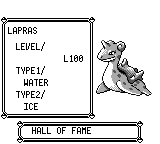
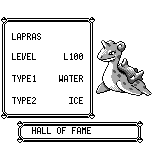
fix(ui): align Hall of Fame labels and add card padding

diff --git a/crates/pokered-app/src/render/hof_ceremony.rs b/crates/pokered-app/src/render/hof_ceremony.rs
@@ -318,7 +318,7 @@ fn draw_mon_info(entry: &pokered_core::hof_ceremony::HofEntry, fb: &mut FrameBuf
     draw_hof_mon_info(entry.species, entry.level, &entry.nickname, fb, is_zh);
 }
 
-/// Shared ceremony / League PC information card with twelve-pixel rows.
+/// Shared ceremony / League PC card with padded, aligned label/value rows.
 pub(super) fn draw_hof_mon_info(
     species: pokered_data::species::Species,
     level: u8,
@@ -327,15 +327,30 @@ pub(super) fn draw_hof_mon_info(
     is_zh: bool,
 ) {
     draw_text_box(fb, 0, 2 * T, 10, 11, FG);
-    draw_text(nickname, T, 24, FG, fb);
-    draw_text(lang_data::ui_label("LEVEL/", is_zh), 2 * T, 40, FG, fb);
-    draw_text(&format!("L{}", level), 8 * T, 52, FG, fb);
+    let left = 12;
+    let right = 84;
+    draw_text(nickname, left, 30, FG, fb);
+    let mut draw_row = |label: &str, value: &str, y| {
+        draw_text(label.trim_end_matches('/'), left, y, FG, fb);
+        draw_text(value, right - measure_text(value), y, FG, fb);
+    };
+    draw_row(
+        lang_data::ui_label("LEVEL/", is_zh),
+        &format!("L{}", level),
+        50,
+    );
     if let Some(stats) = pokered_data::pokemon_data::get_base_stats(species) {
-        draw_text(lang_data::ui_label("TYPE1/", is_zh), 2 * T, 64, FG, fb);
-        draw_text(lang_data::type_name(stats.type1, is_zh), 3 * T, 76, FG, fb);
+        draw_row(
+            lang_data::ui_label("TYPE1/", is_zh),
+            lang_data::type_name(stats.type1, is_zh),
+            72,
+        );
         if stats.type1 != stats.type2 {
-            draw_text(lang_data::ui_label("TYPE2/", is_zh), 2 * T, 88, FG, fb);
-            draw_text(lang_data::type_name(stats.type2, is_zh), 3 * T, 100, FG, fb);
+            draw_row(
+                lang_data::ui_label("TYPE2/", is_zh),
+                lang_data::type_name(stats.type2, is_zh),
+                94,
+            );
         }
     }
 }
@@ -469,9 +484,9 @@ mod tests {
             }
             let mut title = new_fb();
             draw_hof_ceremony(&hof, &mut resources, &mut title, lang);
-            assert!((100..110).any(|y| (24..80).any(|x| info.get_pixel(x, y) == Some(FG))),
+            assert!((94..104).any(|y| (48..84).any(|x| info.get_pixel(x, y) == Some(FG))),
                 "second type must have visible ink");
-            for y in 96..112 {
+            for y in 90..112 {
                 for x in 8..88 {
                     assert_eq!(info.get_pixel(x, y), title.get_pixel(x, y),
                         "{lang:?} title erased the second type at ({x},{y})");

diff --git a/docs/audits/ui-overlay-font-padding/README.md b/docs/audits/ui-overlay-font-padding/README.md
@@ -4,8 +4,8 @@
 对应 PR 分支 `fix/ui-overlay-font-padding`。
 
 修正背包操作菜单和学习器确认框、队伍操作菜单和多行提示的字高与边框间距。
-名人堂仪式和联盟电脑共用信息卡，等级、属性采用 12 像素行距，仪式标题位于
-信息卡下方，避免覆盖第二属性。玩家名字、时间、金钱和英文图鉴评价也调整排版。
+名人堂仪式和联盟电脑共用信息卡，昵称在框内留出顶部空白，等级、属性采用
+标签左对齐、数值右对齐的同一行布局。仪式标题位于信息卡下方，避免覆盖第二属性。玩家名字、时间、金钱和英文图鉴评价也调整排版。
 老虎机提示与下注框、图鉴“区域未知”和大木博士命名提示框补足文字空间。
 老虎机增量重绘的光标位置与完整绘制同步。
 
@@ -39,3 +39,16 @@ cargo run --locked -p pokered-app --example capture_ui_overlay_padding -- /absol
 第二属性文字保持可见。
 
 测试和编译结果见 [`validation.json`](validation.json)。
+
+
+## 名人堂评审调整
+
+评审前版本为 `6192f80618d9f12a6699455456aa2e736f3e9190`。
+昵称从 y=24 调整到 y=30，在文本框内部上沿保留 6 像素空白，左右各留 4 像素。
+等级、第一属性和第二属性的标签与值分别放在同一行（y=50、72、94），
+标签移除原来独占一行时使用的尾部斜杠，值按字宽统一右对齐。
+英文最长属性 FIGHTING/ELECTRIC 也能留出标签和值之间的空白。
+
+新增 6 张 `*-review-before.png` 保留评审前 PR 画面，对应现有 6 张 `*-after.png`，
+覆盖中英文名人堂单/双属性和联盟电脑。master 对照截图保持原样，after 已更新。
+评审追加验证记录在 `validation.json` 的 `hof_review` 字段。
